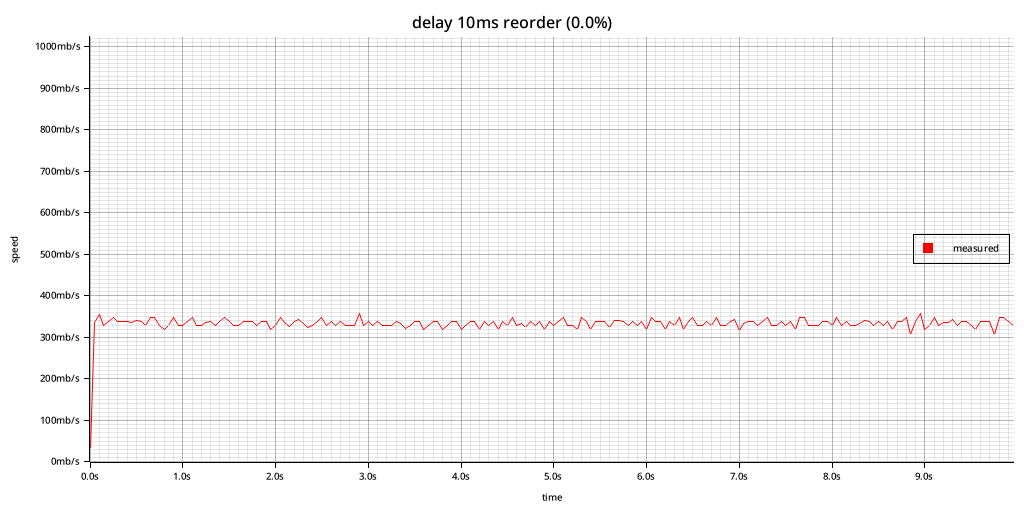
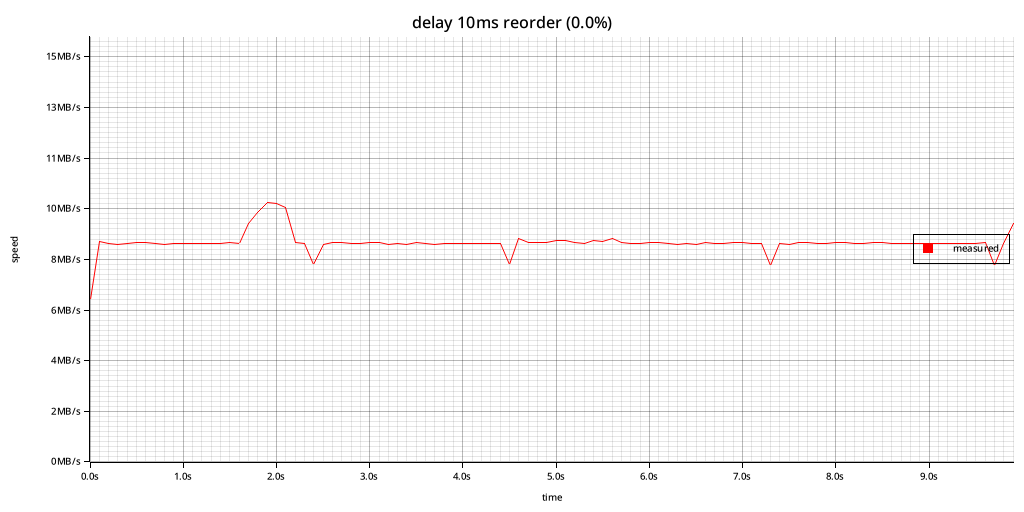
update

Changed region(s): [[0.0312, 0.0625, 1.0, 0.9375]]

diff --git a/src/main.rs b/src/main.rs
@@ -78,8 +78,10 @@ fn clean() -> Result<()> {
     Ok(())
 }
 
-const CNT: usize = 200;
-const LEN: f64 = 0.050;
+const MWS: f64 = 262144f64;
+const MSS: f64 = 1024f64;
+const CNT: usize = 600;
+const LEN: f64 = 0.100;
 const TOT: f64 = CNT as f64 * LEN;
 
 fn simulate(
@@ -92,9 +94,7 @@ fn simulate(
         .map(|(quantity, expected)| {
             println!("Simulating {impairment} {quantity}");
             execute(
-                format!(
-                    "tc qdisc add dev server root netem {impairment} {quantity} rate 1073741824bit"
-                ),
+                format!("tc qdisc add dev server root netem {impairment} {quantity}"),
                 Some("server"),
             )?;
             let mut stream = TcpStream::connect("10.1.1.1:1234")?;
@@ -107,9 +107,7 @@ fn simulate(
                     for _ in 0..CNT {
                         let now = Instant::now();
                         while now.elapsed().as_secs_f64() < LEN {}
-                        data.push(
-                            amount.swap(0, Ordering::AcqRel) as f64 / LEN / 2f64.powf(20f64 - 3f64),
-                        );
+                        data.push(amount.swap(0, Ordering::AcqRel) as f64 / LEN);
                     }
                     data
                 })
@@ -119,9 +117,7 @@ fn simulate(
             }
             let data = thread.join().unwrap();
             execute(
-                format!(
-                    "tc qdisc del dev server root netem {impairment} {quantity} rate 1073741824bit"
-                ),
+                format!("tc qdisc del dev server root netem {impairment} {quantity}"),
                 Some("server"),
             )?;
             let path = format!("out/{}_{quantity}.png", impairment.replace(" ", "_"));
@@ -135,13 +131,13 @@ fn simulate(
                 .margin(10)
                 .set_label_area_size(LabelAreaPosition::Bottom, 40)
                 .set_label_area_size(LabelAreaPosition::Left, 80)
-                .build_cartesian_2d(0f64..(TOT - LEN), 0.0..2f64.powf(10f64))?;
+                .build_cartesian_2d(0f64..(TOT - LEN), 0.0..2f64.powf(24f64))?;
             chart
                 .configure_mesh()
                 .x_desc("time")
                 .y_desc("speed")
                 .x_label_formatter(&|x| format!("{:2.1}s", x))
-                .y_label_formatter(&|y| format!("{y}mb/s"))
+                .y_label_formatter(&|y| format!("{:2.0}MB/s", y / 2f64.powf(20f64)))
                 .draw()?;
             chart
                 .draw_series(LineSeries::new(
@@ -168,8 +164,8 @@ fn simulate(
                 .draw()?;
             root.present()?;
             println!(
-                "{}mb/s",
-                data.clone().into_iter().fold(0.0, |a, b| a + b) / CNT as f64
+                "{:6.4}MB/s",
+                data.clone().into_iter().fold(0.0, |a, b| a + b) / CNT as f64 / 2f64.powf(20f64)
             );
             Ok(data.into_iter().fold(0.0, |a, b| a + b) / CNT as f64)
         })
@@ -185,13 +181,13 @@ fn simulate(
         .margin(20)
         .set_label_area_size(LabelAreaPosition::Bottom, 40)
         .set_label_area_size(LabelAreaPosition::Left, 80)
-        .build_cartesian_2d(0..data.len() - 1, 0f64..2f64.powf(10f64))?;
+        .build_cartesian_2d(0..data.len() - 1, 0.0..2f64.powf(24f64))?;
     chart
         .configure_mesh()
         .x_desc(impairment)
         .y_desc("speed")
         .x_label_formatter(&|x| quantities[*x].0.clone())
-        .y_label_formatter(&|y| format!("{y}mb/s"))
+        .y_label_formatter(&|y| format!("{:2.0}MB/s", y / 2f64.powf(20f64)))
         .draw()?;
     chart
         .draw_series(LineSeries::new(data.into_iter().enumerate(), &RED))?
@@ -217,38 +213,38 @@ fn main() {
     init().unwrap();
     // simulate(
     //     "delay",
-    //     (0..11).map(|i| {
+    //     (1..11).map(|i| {
     //         (
     //             format!("{}ms", i * 10),
-    //             Some((100f64 / i as f64).min(2f64.powf(10f64))), // ((i * 10 / 1000))
+    //             Some(MWS / (0.010f64 * i as f64) / 3f64),
     //         )
     //     }),
     // )
     // .unwrap();
     // simulate(
-    //     "loss",
+    //     "delay 10ms loss",
     //     (0..11).map(|i| {
     //         (
-    //             format!("{}%", i),
-    //             Some(2f64.powf(10f64) / (i as f64).sqrt()), // (2 ^ 10 / sqrt(i))
+    //             format!("{:2.1}%", i as f64 / 10f64),
+    //             Some(MSS / 0.010f64 * 3f64 / (i as f64 / 1000f64).sqrt()),
     //         )
     //     }),
     // )
     // .unwrap();
     // simulate(
-    //     "duplicate",
-    //     (0..11).map(|i| {
-    //         (
-    //             format!("{}%", i),
-    //             Some(1024f64 / (1f64 + i as f64 / 100f64)),
-    //         )
-    //     }),
+    //     "delay 10ms reorder",
+    //     (0..11).map(|i| (format!("{}%", i as f64 / 10f64), None)),
     // )
     // .unwrap();
+    // clean().unwrap();
     simulate(
-        "delay 10ms reorder",
-        (0..11).map(|i| (format!("{:2.1}%", i as f64 / 5f64), None)),
+        "duplicate",
+        (0..11).map(|i| {
+            (
+                format!("{}%", i),
+                Some(2f64.powf(24f64) / (1f64 + i as f64 / 100f64)),
+            )
+        }),
     )
     .unwrap();
-    clean().unwrap();
 }

diff --git a/README.md b/README.md
@@ -1,1 +1,1 @@
-Set window size with `sysctl -w "net.ipv4.tcp_rmem=1048576 1048576 1048576"`
+set window size with `sysctl -w "net.ipv4.tcp_rmem = 262144 262144 262144"`
